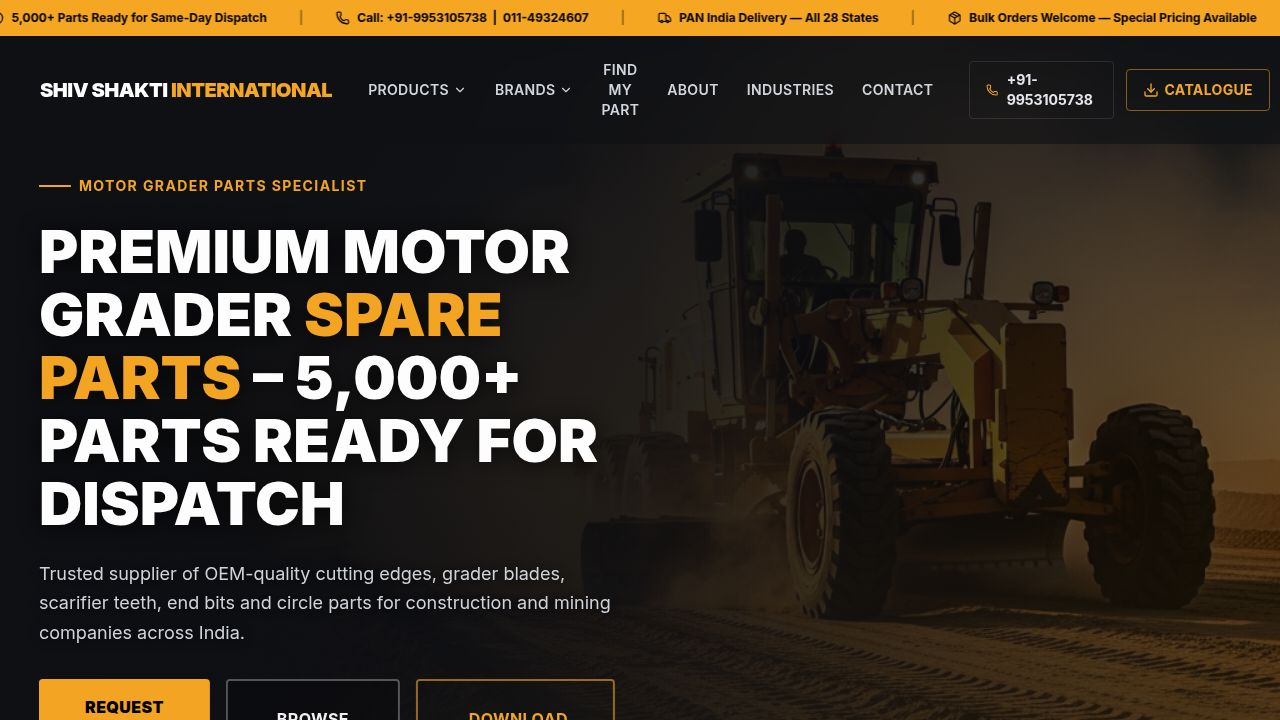
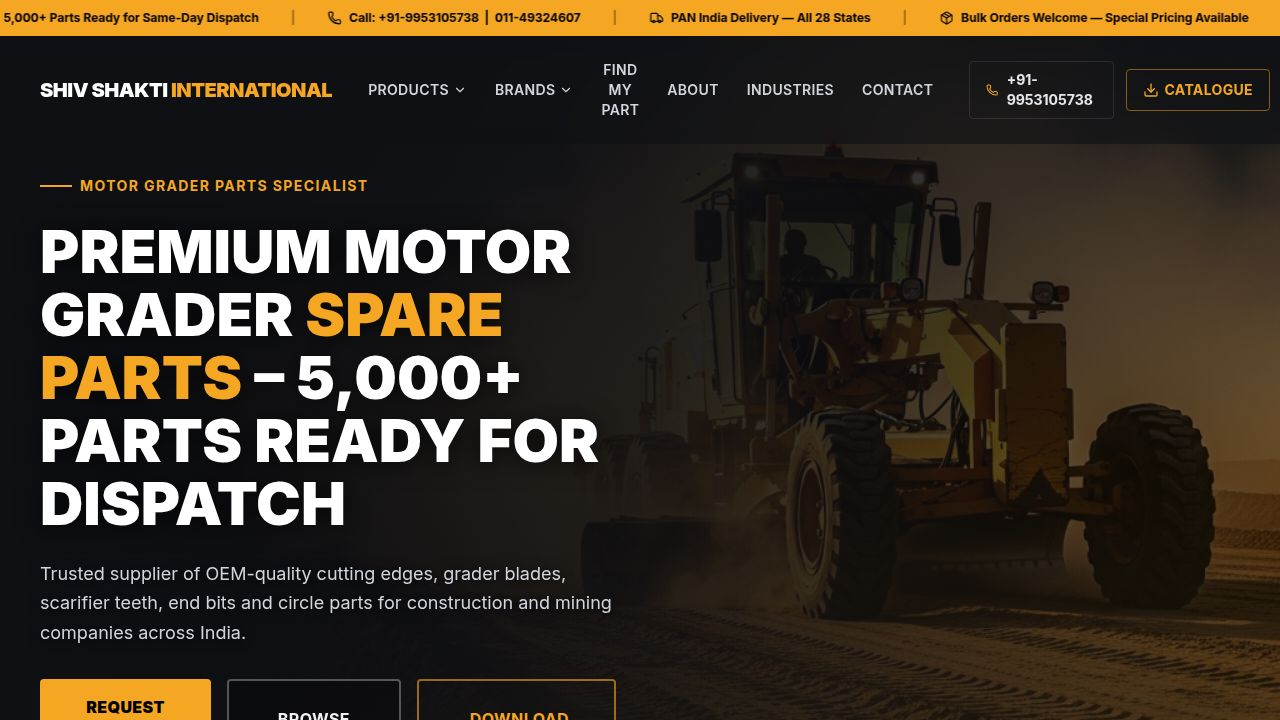
Add an admin console for viewing and managing customer inquiries
Integrate the AdminPage component into the routing, enabling access to the admin console at the `/admin` path. Update the contact form's submission handler in `Home.tsx` to asynchronously POST enquiry data to the `/api/enquiries` endpoint before opening the WhatsApp chat.

Replit-Commit-Author: Agent
Replit-Commit-Session-Id: 5fedfaaf-cb02-4644-af9e-4e45c776dc3e
Replit-Commit-Checkpoint-Type: full_checkpoint
Replit-Commit-Event-Id: 0456d602-1b8a-42d2-9705-0d679fa39013
Replit-Commit-Screenshot-Url: https://storage.googleapis.com/screenshot-production-us-central1/6948a774-8277-42dd-a611-a1a8ef6926be/5fedfaaf-cb02-4644-af9e-4e45c776dc3e/iXJq1R7
Replit-Helium-Checkpoint-Created: true

diff --git a/artifacts/shiv-shakti/src/pages/Home.tsx b/artifacts/shiv-shakti/src/pages/Home.tsx
@@ -137,8 +137,24 @@ export default function Home() {
     document.getElementById(id)?.scrollIntoView({ behavior: "smooth" });
   };
 
-  const handleFormSubmit = (e: React.FormEvent) => {
+  const handleFormSubmit = async (e: React.FormEvent) => {
     e.preventDefault();
+    try {
+      await fetch("/api/enquiries", {
+        method: "POST",
+        headers: { "Content-Type": "application/json" },
+        body: JSON.stringify({
+          name: formData.name,
+          phone: formData.phone,
+          machine: formData.machine || null,
+          part: formData.part || null,
+          message: formData.message || null,
+          source: "contact-form",
+        }),
+      });
+    } catch {
+      // silently continue — WhatsApp will still open
+    }
     const msg = `Hello SSI Earthmovers,%0A%0AName: ${encodeURIComponent(formData.name)}%0APhone: ${encodeURIComponent(formData.phone)}%0AMachine: ${encodeURIComponent(formData.machine || "Not specified")}%0APart Required: ${encodeURIComponent(formData.part || "Not specified")}%0AMessage: ${encodeURIComponent(formData.message)}`;
     window.open(`https://wa.me/919953105738?text=${msg}`, "_blank");
     setFormSent(true);

diff --git a/artifacts/shiv-shakti/src/App.tsx b/artifacts/shiv-shakti/src/App.tsx
@@ -6,6 +6,7 @@ import NotFound from "@/pages/not-found";
 import Home from "@/pages/Home";
 import BrandPage from "@/pages/BrandPage";
 import ProductPage from "@/pages/ProductPage";
+import AdminPage from "@/pages/AdminPage";
 
 const queryClient = new QueryClient();
 
@@ -15,6 +16,7 @@ function Router() {
       <Route path="/" component={Home} />
       <Route path="/brands/:slug" component={BrandPage} />
       <Route path="/products/:slug" component={ProductPage} />
+      <Route path="/admin" component={AdminPage} />
       <Route component={NotFound} />
     </Switch>
   );